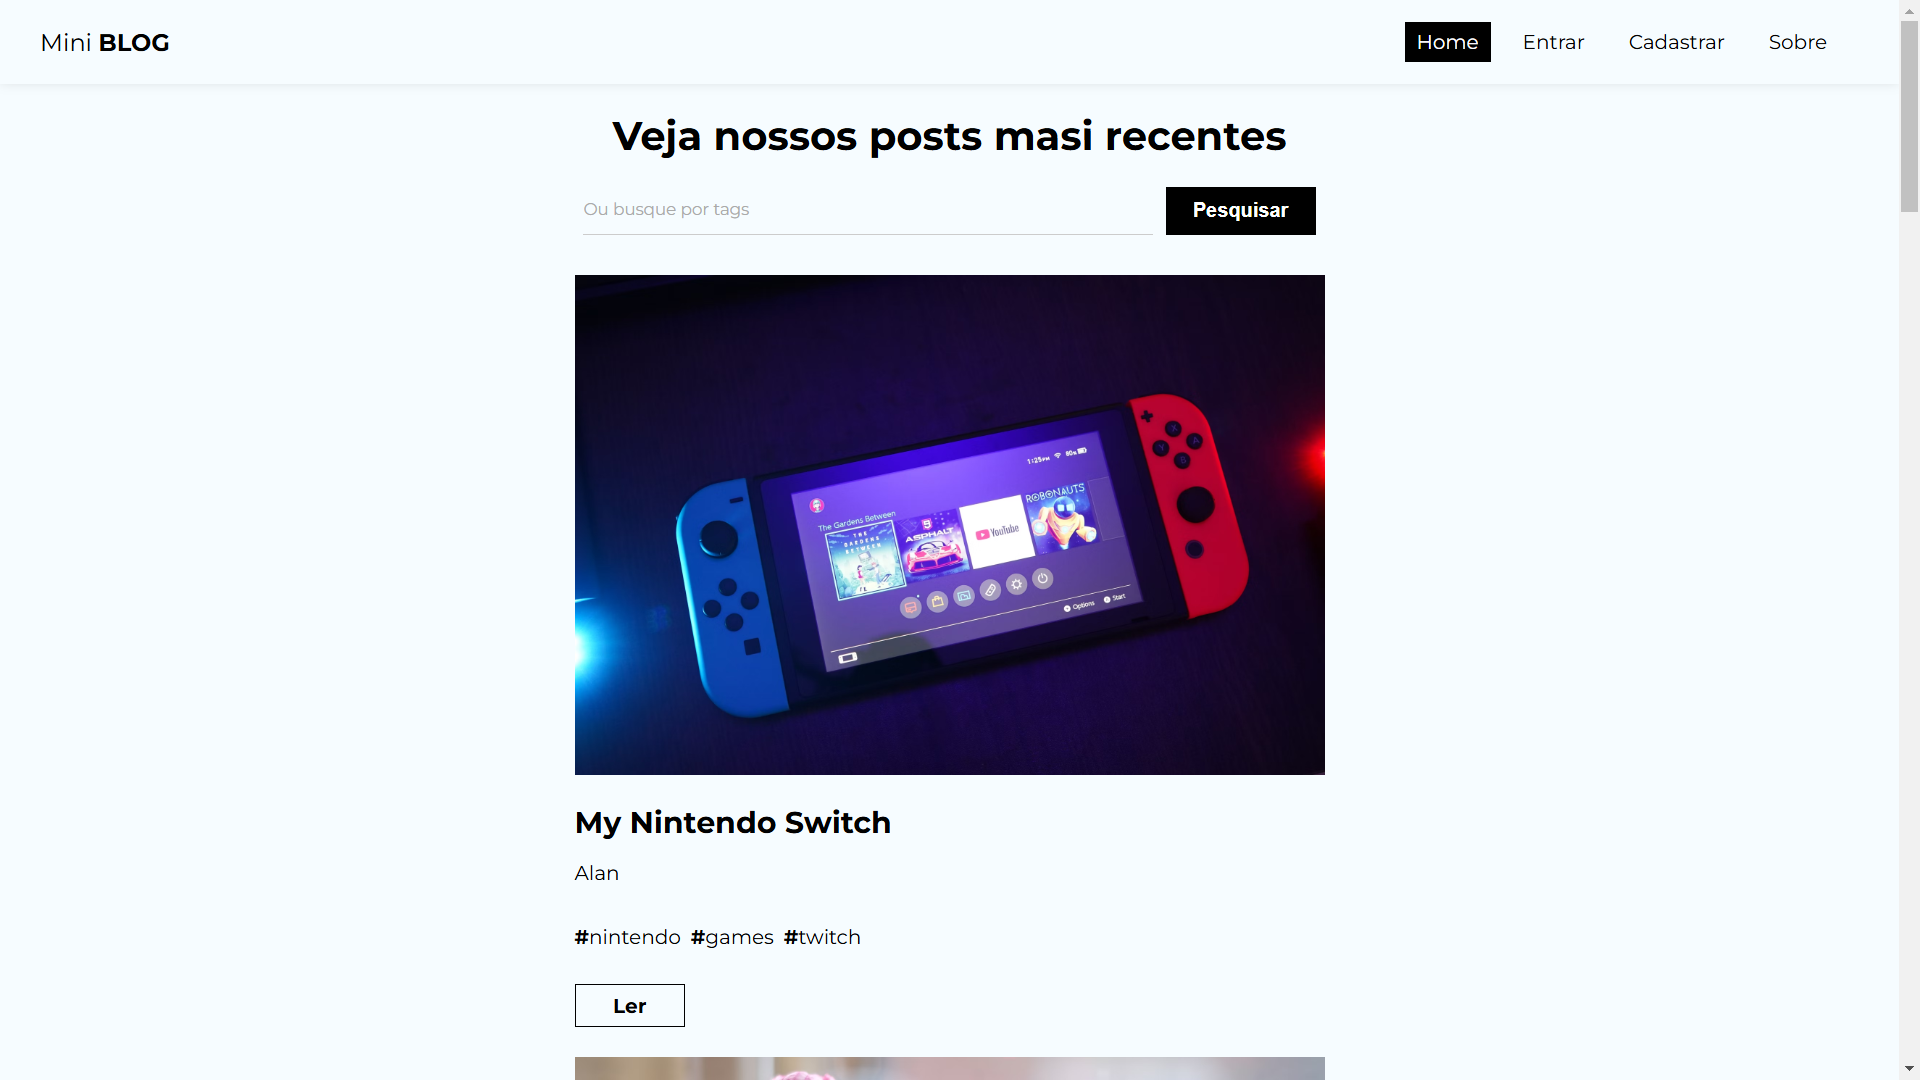
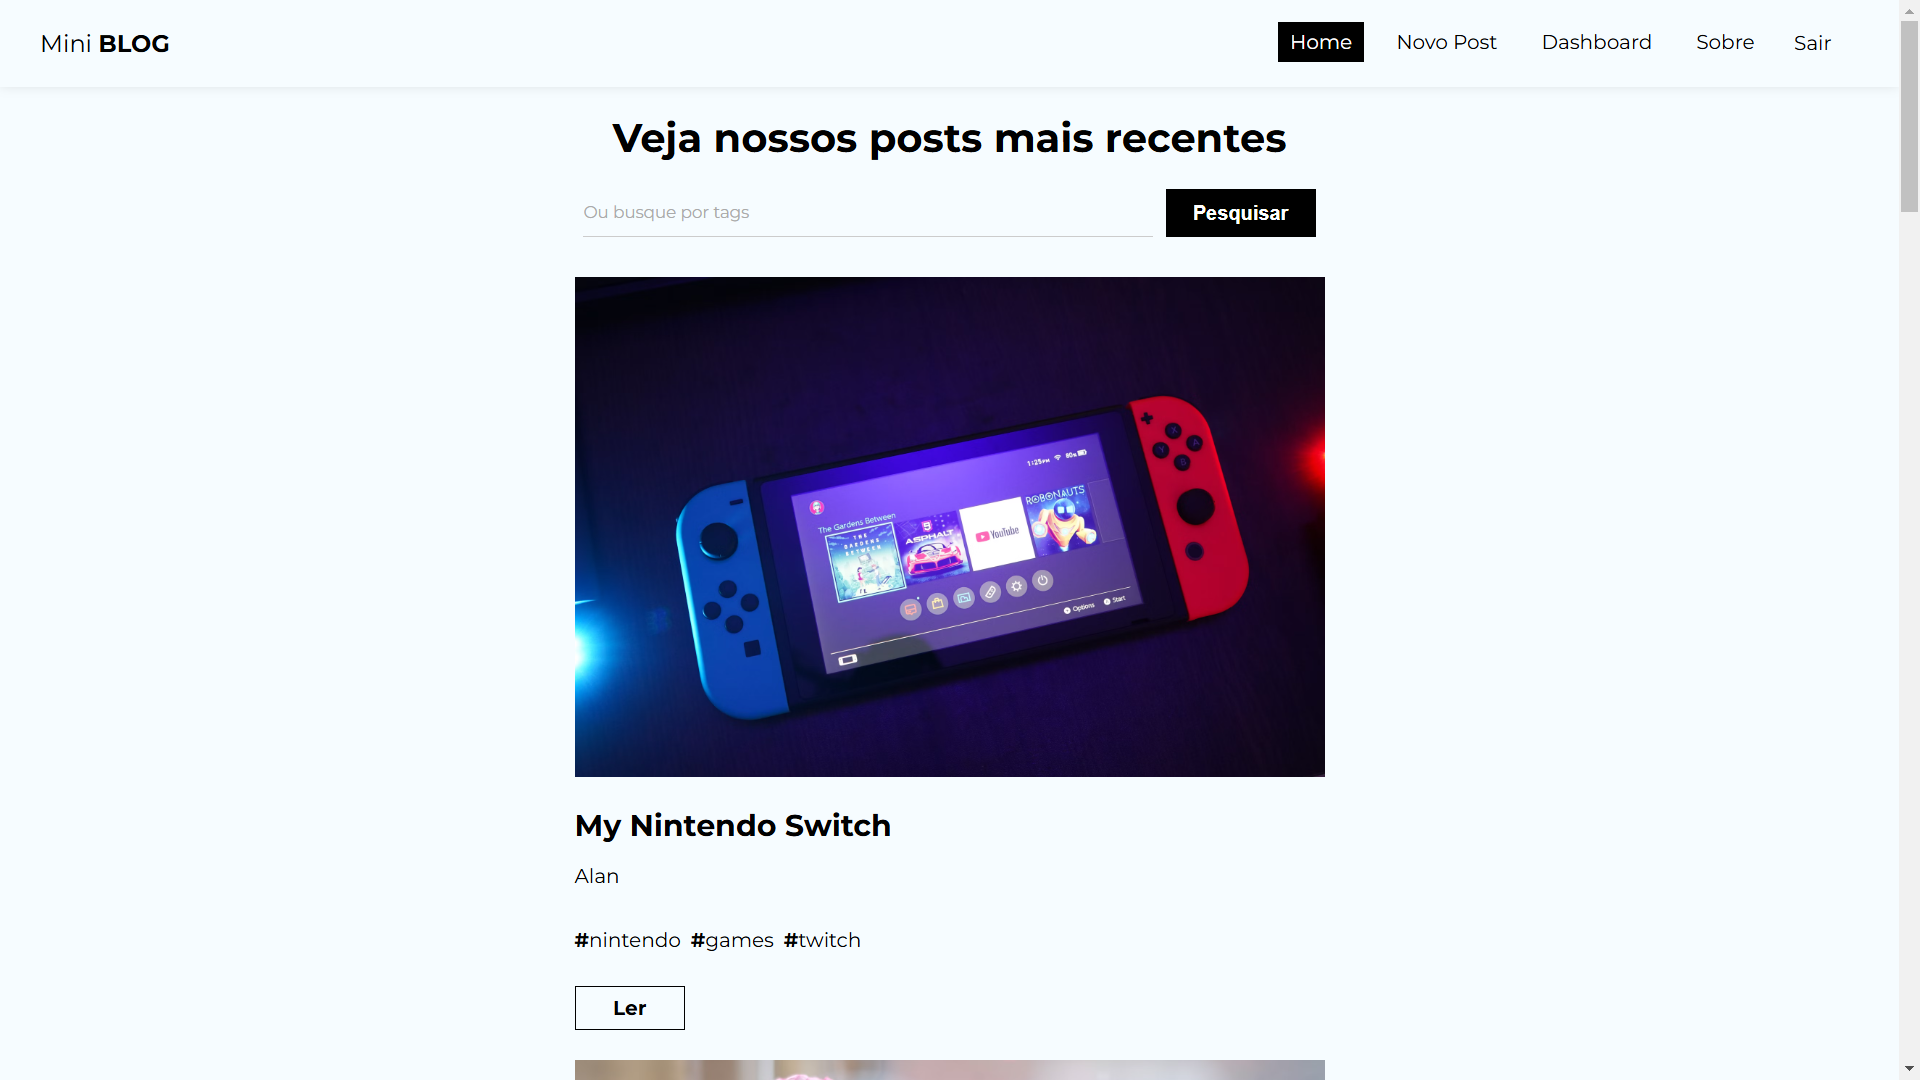
screenshot home - readme

diff --git a/src/pages/Home/Home.jsx b/src/pages/Home/Home.jsx
@@ -25,7 +25,7 @@ const Home = () => {
 
   return (
     <div className={styles.home}>
-      <h1>Veja nossos posts masi recentes</h1>
+      <h1>Veja nossos posts mais recentes</h1>
       <form onSubmit={handleSubmit} className={styles.search_form}>
         <input
           type="text"
